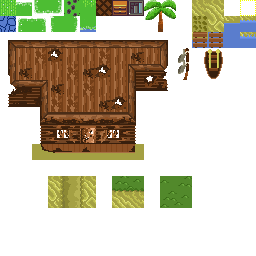
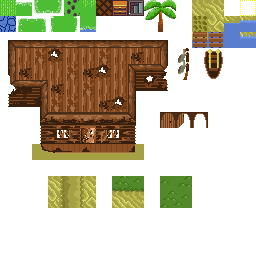
feat: door interaction, needs polish

Changed region(s): [[0.625, 0.4375, 0.8125, 0.5]]

diff --git a/src/ecs/Animation.cpp b/src/ecs/Animation.cpp
@@ -27,28 +27,19 @@ void Animation::addMixinFrame(int a) {
 }
 
 void Animation::addMixinFrame(int n, int s, int e, int w) {
-    auto f = MixinFrame();
-    f.frames[N] = n;
-    f.frames[S] = s;
-    f.frames[E] = e;
-    f.frames[W] = w;
-    f.duration = 100;
-    mixinFrames.push(f);
+    mixinFrames.emplace(n, s, e, w, 100);
 }
 
 void Animation::addAttackFrame(int n, int s, int e, int w, float duration, bool projectile) {
-    auto f = MixinFrame();
-    f.frames[N] = n;
-    f.frames[S] = s;
-    f.frames[E] = e;
-    f.frames[W] = w;
-
-    f.duration = duration;
     if (projectile) {
-        projectileAttackFrames.push_back(f);
+        projectileAttackFrames.emplace_back(n, s, e, w, duration);
     } else {
-        attackFrames.push_back(f);
+        attackFrames.emplace_back(n, s, e, w, duration);
     }
+}
+
+void Animation::addStateFrame(int n, int speed) {
+    stateFrames.emplace_back(n, speed);
 }
 
 void Animation::queueAttackFrames() {
@@ -64,9 +55,47 @@ void Animation::queueProjectileFrames() {
 }
 
 void Animation::queueStateFramesForward() {
-    for (auto &frame : projectileAttackFrames) {
+    int lastN = 0;
+    int lastS = 0;
+    int lastW = 0;
+    int lastE = 0;
+    for (int i = 1; i <= stateFrames.size() - 1; i++) {
+        auto frame = this->stateFrames.at(i);
         mixinFrames.push(frame);
+        lastN = frame.frames[N];
+        lastS = frame.frames[S];
+        lastE = frame.frames[E];
+        lastW = frame.frames[W];
     }
+
+    // Set final frame
+    int size = this->frames.at(N).size() - 1;
+    this->frames.at(N).at(size) = lastN;
+    this->frames.at(S).at(size) = lastS;
+    this->frames.at(E).at(size) = lastE;
+    this->frames.at(W).at(size) = lastW;
+}
+
+void Animation::queueStateFramesBackward() {
+    int lastN = 0;
+    int lastS = 0;
+    int lastW = 0;
+    int lastE = 0;
+    for (int i = this->stateFrames.size() - 2; i >= 0; i--) {
+        auto frame = this->stateFrames.at(i);
+        mixinFrames.push(frame);
+        lastN = frame.frames[N];
+        lastS = frame.frames[S];
+        lastE = frame.frames[E];
+        lastW = frame.frames[W];
+    }
+
+    // Set final frame
+    int size = this->frames.at(N).size() - 1;
+    this->frames.at(N).at(size) = lastN;
+    this->frames.at(S).at(size) = lastS;
+    this->frames.at(E).at(size) = lastE;
+    this->frames.at(W).at(size) = lastW;
 }
 
 int Animation::getCurrentFrame(Direction d) {

diff --git a/src/Map.cpp b/src/Map.cpp
@@ -40,8 +40,8 @@ JSON::Value Tileset::getProperty(int tileId, const char *name) {
     return JSON::null;
 }
 
-bool Tileset::getFrames(int tileId, std::vector<int> &frames) {
-    auto prop = getProperty(tileId, "animation");
+bool Tileset::getFrames(int tileId, const char *key, std::vector<int> &frames) {
+    auto prop = getProperty(tileId, key);
     if (!prop.is(JSON::JSON_STRING)) {
         return false;
     }
@@ -55,8 +55,8 @@ bool Tileset::getFrames(int tileId, std::vector<int> &frames) {
     return true;
 }
 
-bool Tileset::getSpeed(int tileId, int *speed) {
-    auto s = getProperty(tileId, "speed");
+bool Tileset::getInt(int tileId, const char *key, int *speed) {
+    auto s = getProperty(tileId, key);
     if (!s.is(JSON::JSON_NUMBER)) {
         return false;
     }
@@ -159,16 +159,26 @@ void Layer::load(JSON::Value &layer) {
 
         if (tileset && tileset->hasProps(tileId)) {
             int speed;
+            int interactSpeed = 300;
             std::vector<int> frames;
 
-            if (tileset->getFrames(tileId, frames)) {
+            if (tileset->getInt(tileId, "speed", &speed)) {
+                entity->getComponent<Animation>()->speed = speed;
+            }
+
+            if (tileset->getFrames(tileId, "animation", frames)) {
                 for (int frame : frames) {
                     entity->getComponent<Animation>()->addAnimationFrame(frame);
                 }
             }
-            if (tileset->getSpeed(tileId, &speed)) {
-                entity->getComponent<Animation>()->speed = speed;
+            frames.clear();
+            if (tileset->getFrames(tileId, "interactAnimation", frames)) {
+                tileset->getInt(tileId, "interactSpeed", &interactSpeed);
+                for (int frame : frames) {
+                    entity->getComponent<Animation>()->addStateFrame(frame, interactSpeed);
+                }
             }
+
 
             Padding p;
             if (tileset->getPadding(tileId, p) && entity->hasComponent<Collider>()) {

diff --git a/src/ecs/Animation.h b/src/ecs/Animation.h
@@ -9,6 +9,36 @@
 #include "../alg/Direction.h"
 
 struct MixinFrame {
+    MixinFrame(int n) {
+        frames[N] = n;
+        frames[S] = n;
+        frames[E] = n;
+        frames[W] = n;
+    }
+
+    MixinFrame(int n, float speed) {
+        frames[N] = n;
+        frames[S] = n;
+        frames[E] = n;
+        frames[W] = n;
+        duration = speed;
+    }
+
+    MixinFrame(int n, int s, int e, int w) {
+        frames[N] = n;
+        frames[S] = s;
+        frames[E] = e;
+        frames[W] = w;
+    }
+
+    MixinFrame(int n, int s, int e, int w, float speed) {
+        frames[N] = n;
+        frames[S] = s;
+        frames[E] = e;
+        frames[W] = w;
+        duration = speed;
+    }
+
     std::unordered_map<Direction, int> frames;
     float duration = 0.0f;
 };
@@ -27,6 +57,8 @@ public:
 
     void addMixinFrame(int n, int s, int e, int w);
 
+    void addStateFrame(int n, int speed);
+
     void addAttackFrame(int n, int s, int e, int w, float duration, bool projectile = false);
 
     void queueAttackFrames();
@@ -34,6 +66,8 @@ public:
     void queueProjectileFrames();
 
     void queueStateFramesForward();
+
+    void queueStateFramesBackward();
 
     int getCurrentFrame(Direction d = N);
 

diff --git a/src/ecs/Manager.cpp b/src/ecs/Manager.cpp
@@ -100,6 +100,7 @@ void Manager::getColliders(std::vector<std::shared_ptr<Collider> > &target) {
     for (auto &entity : entities.at(WALLS)) {
         if (entity->hasComponent<Collider>()) {
             auto collider = entity->getComponent<Collider>();
+            if (collider->suspended) continue;
             collider->checked = false;
             target.push_back(collider);
         }
@@ -107,6 +108,7 @@ void Manager::getColliders(std::vector<std::shared_ptr<Collider> > &target) {
     for (auto &entity : entities.at(OBJECTS)) {
         if (entity->hasComponent<Collider>()) {
             auto collider = entity->getComponent<Collider>();
+            if (collider->suspended) continue;
             collider->checked = false;
             target.push_back(collider);
         }
@@ -114,6 +116,7 @@ void Manager::getColliders(std::vector<std::shared_ptr<Collider> > &target) {
     for (auto &entity : entities.at(ITEMS)) {
         if (entity->hasComponent<Collider>()) {
             auto collider = entity->getComponent<Collider>();
+            if (collider->suspended) continue;
             collider->checked = false;
             target.push_back(collider);
         }

diff --git a/src/Api.cpp b/src/Api.cpp
@@ -163,10 +163,11 @@ namespace Api {
             action->onInteract([x, y](Entity &parent) {
                 Position p(x, y);
                 bool accessible = RT_Topology.flipBarrier(p);
+                parent.getComponent<Collider>()->suspended = accessible;
                 if (accessible) {
-                    parent.removeComponent<Collider>();
+                    parent.getComponent<Animation>()->queueStateFramesForward();
                 } else {
-
+                    parent.getComponent<Animation>()->queueStateFramesBackward();
                 }
             });
         }

diff --git a/src/ecs/Interactible.cpp b/src/ecs/Interactible.cpp
@@ -14,8 +14,10 @@ void Interactible::interact() {
     auto t = this->parent.getComponent<Transform>();
     auto p = RT_Player->getComponent<Transform>();
 
-    // enforce min distance for interaction
-    if (t->p.distance(p->p) <= 1) {
+    float distance = t->p.distance(p->p);
+
+    // enforce min and max distance for interaction
+    if (distance >= 0.5 && distance <= 1.2) {
         this->fn(this->parent);
     }
 }

diff --git a/src/Map.h b/src/Map.h
@@ -16,9 +16,9 @@ class Tileset {
 public:
     void load(const char *file);
 
-    bool getFrames(int tileId, std::vector<int> &frames);
+    bool getFrames(int tileId, const char *key, std::vector<int> &frames);
 
-    bool getSpeed(int tileId, int *speed);
+    bool getInt(int tileId, const char *key, int *speed);
 
     bool getPadding(int tileId, Padding &p);
 

diff --git a/main.cpp b/main.cpp
@@ -266,7 +266,7 @@ void loop() {
 
     Api::setRoofHideTrigger(11, 8);
     Api::setRoofShowTrigger(11, 10);
-    Api::setDoor(10, 9);
+    Api::setDoor(11, 9);
 
     // Global alpha
     float ga = 255.0f;

diff --git a/src/ecs/Collider.h b/src/ecs/Collider.h
@@ -50,6 +50,8 @@ public:
 
     bool checked;
 
+    bool suspended = false;
+
     Padding padding;
 
 private:
